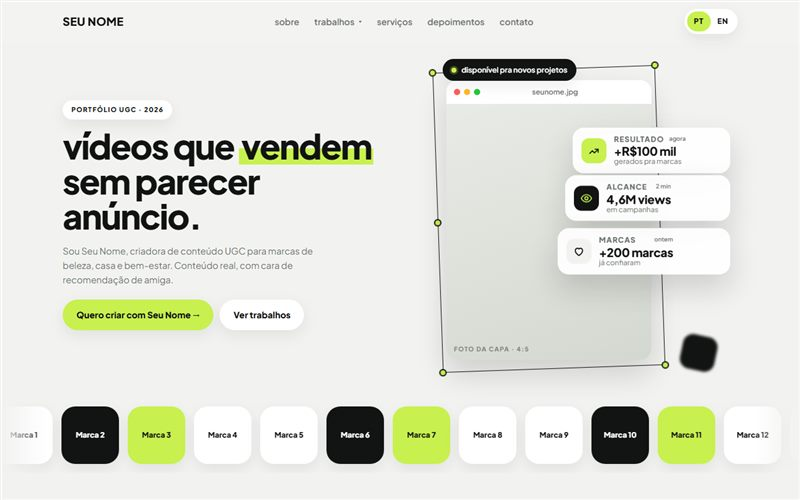
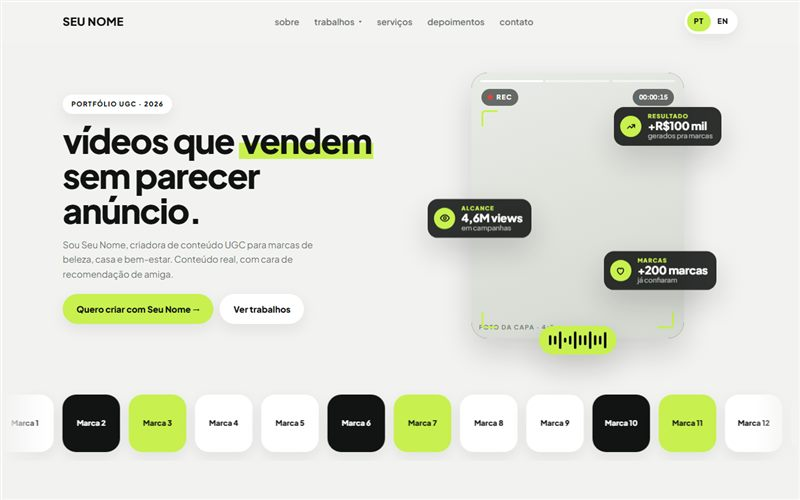
Atualiza index.html

diff --git a/modelos/estilo-03/index.html b/modelos/estilo-03/index.html
@@ -92,46 +92,46 @@ em{font-style:normal;background:linear-gradient(transparent 56%,var(--lima) 56%,
 
 @keyframes boia{0%,100%{transform:translateY(0)}50%{transform:translateY(-8px)}}
 
-/* janela de computador com a foto da capa, moldura de seleção, ícones de app e 3 notificações */
-.janela-area{position:relative;max-width:420px;width:100%;justify-self:center;padding:34px 0 18px}
-.janela{position:relative;width:78%;border-radius:18px;background:var(--branco);box-shadow:var(--sombra-alta);overflow:hidden;animation:boia 7s ease-in-out infinite}
-.janela-barra{display:flex;align-items:center;gap:6px;padding:10px 12px}
-.janela-barra i{width:10px;height:10px;border-radius:50%;background:#ff5f57}
-.janela-barra i:nth-child(2){background:#febc2e}
-.janela-barra i:nth-child(3){background:#28c840}
-.janela-barra span{flex:1;margin-right:28px;text-align:center;font-size:11.5px;font-weight:600;color:var(--cinza)}
-.janela .foto{aspect-ratio:4/5}
-/* moldura de seleção, como num programa de design */
-.selecao{position:absolute;z-index:0;top:16px;left:-14px;width:calc(78% + 28px);bottom:4px;border:1.5px solid var(--tinta);rotate:-2deg;pointer-events:none}
-.selecao i{position:absolute;width:12px;height:12px;border:2px solid var(--tinta);border-radius:50%;background:var(--lima)}
-.selecao i:nth-child(1){top:-7px;left:-7px}
-.selecao i:nth-child(2){top:-7px;left:calc(50% - 6px)}
-.selecao i:nth-child(3){top:-7px;right:-7px}
-.selecao i:nth-child(4){bottom:-7px;left:-7px}
-.selecao i:nth-child(5){bottom:-7px;right:-7px}
-.selecao i:nth-child(6){top:calc(50% - 6px);left:-7px}
-/* "disponível pra novos projetos" com bolinha verde */
-.disponivel{position:absolute;z-index:3;top:0;left:-6px;display:inline-flex;align-items:center;gap:8px;padding:8px 14px;border-radius:999px;background:var(--tinta);color:#fff;font-size:12px;font-weight:600;box-shadow:var(--sombra)}
-.disponivel::before{content:"";width:8px;height:8px;border-radius:50%;background:var(--lima);box-shadow:0 0 0 3px rgba(200,240,79,.25)}
-/* ícones de app desfocados flutuando */
-.app-icone{position:absolute;z-index:0;width:56px;height:56px;border-radius:16px;filter:blur(2px);animation:boia 5s ease-in-out infinite}
-.app-icone.a1{top:30px;left:34%;background:var(--lima);rotate:-10deg}
-.app-icone.a2{bottom:-6px;right:-10px;background:var(--tinta);rotate:12deg;animation-delay:-2s}
-/* notificações por cima da foto */
-.notificacoes{position:absolute;z-index:2;top:22%;right:-34px;width:60%;display:grid;gap:10px;margin:0}
-.notif{display:flex;align-items:center;gap:12px;padding:12px 14px;border-radius:18px;background:rgba(255,255,255,.92);backdrop-filter:blur(10px);-webkit-backdrop-filter:blur(10px);box-shadow:var(--sombra-alta);animation:boia 6s ease-in-out infinite}
-.notif:nth-child(2){margin-left:-12px;animation-delay:-2s}
-.notif:nth-child(3){margin-left:-24px;animation-delay:-4s}
-.notif-icone{flex:none;width:40px;height:40px;border-radius:12px;background:var(--lima);display:grid;place-items:center}
-.notif-icone.escuro{background:var(--tinta)}
-.notif-icone.escuro svg{stroke:var(--lima)}
-.notif-icone.branco{background:var(--fundo)}
-.notif-icone svg{width:20px;height:20px;fill:none;stroke:var(--tinta);stroke-width:2;stroke-linecap:round;stroke-linejoin:round}
-.notif p{margin:0;display:grid;line-height:1.2;min-width:0}
-.notif small{display:flex;justify-content:space-between;gap:8px;font-size:9.5px;font-weight:800;letter-spacing:.1em;color:var(--cinza)}
-.notif small i{font-style:normal;font-weight:600;letter-spacing:0}
-.notif b{margin-top:2px;font-size:19px;font-weight:800;letter-spacing:-.02em}
-.notif p > span{font-size:11.5px;color:var(--cinza)}
+/* visor de câmera gravando com a foto da capa, onda de áudio e 3 resultados em cartões espalhados */
+.visor-area{position:relative;max-width:400px;width:100%;justify-self:center;padding:22px 30px 34px}
+.visor{position:relative;border-radius:26px;overflow:hidden;background:var(--tinta);box-shadow:var(--sombra-alta)}
+.visor .foto{aspect-ratio:4/5}
+/* barrinhas de progresso, como nos stories */
+.story{position:absolute;top:12px;left:14px;right:14px;display:flex;gap:4px}
+.story i{flex:1;height:3px;border-radius:2px;background:rgba(255,255,255,.55);overflow:hidden}
+.story i:first-child{background:#fff}
+.story i:nth-child(2)::before{content:"";display:block;height:100%;background:#fff;animation:carrega 6s linear infinite}
+@keyframes carrega{from{width:0}to{width:100%}}
+/* REC piscando e contador de tempo */
+.rec{position:absolute;top:26px;left:16px;display:flex;align-items:center;gap:6px;padding:5px 10px;border-radius:999px;background:rgba(17,20,18,.6);color:#fff;font-size:10.5px;font-weight:800;letter-spacing:.12em}
+.rec::before{content:"";width:8px;height:8px;border-radius:50%;background:#ff3b30;animation:pisca 1.2s ease-in-out infinite}
+@keyframes pisca{50%{opacity:.2}}
+.tempo{position:absolute;top:26px;right:16px;padding:5px 10px;border-radius:999px;background:rgba(17,20,18,.6);color:#fff;font-size:10.5px;font-weight:700;font-variant-numeric:tabular-nums}
+/* cantinhos de enquadramento da câmera */
+.canto{position:absolute;width:26px;height:26px;border:0 solid var(--lima)}
+.canto.c1{top:60px;left:16px;border-top-width:3px;border-left-width:3px;border-top-left-radius:6px}
+.canto.c2{top:60px;right:16px;border-top-width:3px;border-right-width:3px;border-top-right-radius:6px}
+.canto.c3{bottom:16px;left:16px;border-bottom-width:3px;border-left-width:3px;border-bottom-left-radius:6px}
+.canto.c4{bottom:16px;right:16px;border-bottom-width:3px;border-right-width:3px;border-bottom-right-radius:6px}
+/* onda de áudio */
+.onda{position:absolute;z-index:2;bottom:8px;left:50%;display:flex;align-items:center;gap:4px;height:46px;padding:0 16px;border-radius:999px;background:var(--lima);box-shadow:var(--sombra-alta);transform:translateX(-50%)}
+.onda i{width:4px;height:12px;border-radius:2px;background:var(--tinta);animation:som 1s ease-in-out infinite}
+.onda i:nth-child(3n){animation-delay:-.3s}
+.onda i:nth-child(3n+1){animation-delay:-.6s}
+.onda i:nth-child(4n){animation-duration:.8s}
+@keyframes som{0%,100%{height:8px}50%{height:28px}}
+/* resultados: cartões escuros espalhados em volta da foto */
+.notificacoes{position:absolute;inset:0;z-index:3;margin:0;pointer-events:none}
+.notif{position:absolute;display:flex;align-items:center;gap:10px;padding:10px 14px 10px 10px;border-radius:16px;background:rgba(17,20,18,.88);backdrop-filter:blur(10px);-webkit-backdrop-filter:blur(10px);color:#fff;box-shadow:var(--sombra-alta);animation:boia 6s ease-in-out infinite}
+.notif.n1{top:16%;right:-30px}
+.notif.n2{top:48%;left:-40px;animation-delay:-2s}
+.notif.n3{bottom:22%;right:-22px;animation-delay:-4s}
+.notif-icone{flex:none;width:34px;height:34px;border-radius:50%;background:var(--lima);display:grid;place-items:center}
+.notif-icone svg{width:17px;height:17px;fill:none;stroke:var(--tinta);stroke-width:2.2;stroke-linecap:round;stroke-linejoin:round}
+.notif p{margin:0;display:grid;line-height:1.2}
+.notif small{font-size:9px;font-weight:800;letter-spacing:.14em;color:var(--lima)}
+.notif b{font-size:18px;font-weight:800;letter-spacing:-.02em}
+.notif p > span{font-size:11px;color:rgba(255,255,255,.65)}
 
 /* ---------- marcas: faixa branca fininha com os nomes passando ---------- */
 .marcas{padding:14px 0 26px}
@@ -267,7 +267,7 @@ em{font-style:normal;background:linear-gradient(transparent 56%,var(--lima) 56%,
 /* animação ao rolar */
 .surge{opacity:0;transform:translateY(22px);transition:opacity .8s,transform .8s}
 .surge.visto{opacity:1;transform:none}
-@media (prefers-reduced-motion:reduce){.surge{opacity:1;transform:none}.marcas-trilho,.destaque,.janela,.notif,.app-icone,.encontre{animation:none}}
+@media (prefers-reduced-motion:reduce){.surge{opacity:1;transform:none}.marcas-trilho,.destaque,.notif,.onda i,.story i::before,.rec::before,.encontre{animation:none}}
 
 /* ---------- celular ---------- */
 @media (max-width:900px){
@@ -281,25 +281,23 @@ em{font-style:normal;background:linear-gradient(transparent 56%,var(--lima) 56%,
   .submenu a{padding:10px 0;border-radius:0;border-bottom:1px solid var(--linha);font-size:15px}
   .abrir-menu{display:grid}
   .marca{font-size:16px}
-  /* capa: a janela com a foto vem depois do texto */
+  /* capa: o visor com a foto vem depois do texto */
   .capa{padding:24px 0 40px}
   .capa .largura{grid-template-columns:1fr;gap:0}
-  .capa .capa-foto{margin:30px auto 0;max-width:360px}
-  .janela{width:74%}
-  .app-icone.a2{right:4px}
-  .selecao{left:-8px;width:calc(74% + 16px)}
-  .notificacoes{right:-4px;width:68%;top:26%}
-  .notif{padding:9px 10px;gap:9px;border-radius:14px}
-  .notif:nth-child(2){margin-left:-8px}
-  .notif:nth-child(3){margin-left:-16px}
-  .notif-icone{width:32px;height:32px;border-radius:10px}
-  .notif-icone svg{width:16px;height:16px}
+  .capa .capa-foto{margin:18px auto 0;max-width:340px;padding:18px 26px 30px}
+  .notif{padding:8px 11px 8px 8px;gap:8px;border-radius:13px}
+  .notif.n1{right:-4px}
+  .notif.n2{left:-4px}
+  .notif.n3{right:-2px}
+  .notif-icone{width:28px;height:28px}
+  .notif-icone svg{width:14px;height:14px}
+  .notif b{font-size:15px}
+  .notif p > span{font-size:10px}
   .marca-bola{width:78px;height:78px;border-radius:18px;font-size:11px}
   .capa h1{font-size:38px}
   .capa p.apresenta{font-size:14.5px;margin-top:14px}
   .capa .btn{padding:11px 16px;font-size:13px}
   .capa .botoes{gap:8px;margin-top:18px}
-  .notif b{font-size:16px}
   .sobre .largura{grid-template-columns:1fr;gap:30px}
   .sobre .polaroid{width:100%;max-width:320px;margin:6px auto 0;order:2}
   .destaques-lista{grid-template-columns:none;grid-auto-flow:column;grid-auto-columns:72%;overflow-x:auto;scroll-snap-type:x mandatory;padding:16px 14% 18px}
@@ -382,21 +380,22 @@ em{font-style:normal;background:linear-gradient(transparent 56%,var(--lima) 56%,
           <a class="btn btn-linha" href="#destaques" data-en="See my work">Ver trabalhos</a>
         </div>
       </div>
-      <!-- foto da capa numa janela de computador, com moldura de seleção e 3 notificações por cima -->
-      <div class="capa-foto janela-area">
-        <span class="disponivel" data-en="available for new projects">disponível pra novos projetos</span>
-        <span class="app-icone a1" aria-hidden="true"></span>
-        <span class="app-icone a2" aria-hidden="true"></span>
-        <div class="selecao" aria-hidden="true"><i></i><i></i><i></i><i></i><i></i><i></i></div>
-        <div class="janela">
-          <div class="janela-barra" aria-hidden="true"><i></i><i></i><i></i><span>seunome.jpg</span></div>
+      <!-- foto da capa num visor de câmera gravando, com 3 resultados em cartões espalhados em volta -->
+      <div class="capa-foto visor-area">
+        <div class="visor">
           <div class="foto" data-texto="Foto da capa · 4:5"></div>
+          <div class="story" aria-hidden="true"><i></i><i></i><i></i></div>
+          <span class="rec" aria-hidden="true">REC</span>
+          <span class="tempo" aria-hidden="true">00:00:15</span>
+          <span class="canto c1" aria-hidden="true"></span><span class="canto c2" aria-hidden="true"></span><span class="canto c3" aria-hidden="true"></span><span class="canto c4" aria-hidden="true"></span>
         </div>
-        <!-- EDITAR: os 3 resultados que aparecem como notificação (os números contam sozinhos) -->
+        <!-- onda de áudio animada -->
+        <div class="onda" aria-hidden="true"><i></i><i></i><i></i><i></i><i></i><i></i><i></i><i></i><i></i><i></i><i></i><i></i></div>
+        <!-- EDITAR: os 3 resultados (os números contam sozinhos) -->
         <div class="notificacoes numeros">
-          <div class="notif"><span class="notif-icone"><svg viewBox="0 0 24 24"><path d="M4 17l5-5 4 4 7-7"/><path d="M14 9h6v6"/></svg></span><p><small><span data-en="RESULTS">RESULTADO</span><i data-en="now">agora</i></small><b>+R$100 mil</b><span data-en="generated for brands">gerados pra marcas</span></p></div>
-          <div class="notif"><span class="notif-icone escuro"><svg viewBox="0 0 24 24"><path d="M2 12s4-7 10-7 10 7 10 7-4 7-10 7S2 12 2 12z"/><circle cx="12" cy="12" r="3"/></svg></span><p><small><span data-en="REACH">ALCANCE</span><i data-en="2 min">2 min</i></small><b>4,6M views</b><span data-en="in campaigns">em campanhas</span></p></div>
-          <div class="notif"><span class="notif-icone branco"><svg viewBox="0 0 24 24"><path d="M12 20s-7-4.4-7-10a4 4 0 0 1 7-2.6A4 4 0 0 1 19 10c0 5.6-7 10-7 10z"/></svg></span><p><small><span data-en="BRANDS">MARCAS</span><i data-en="yesterday">ontem</i></small><b>+200 marcas</b><span data-en="already trusted me">já confiaram</span></p></div>
+          <div class="notif n1"><span class="notif-icone"><svg viewBox="0 0 24 24"><path d="M4 17l5-5 4 4 7-7"/><path d="M14 9h6v6"/></svg></span><p><small data-en="RESULTS">RESULTADO</small><b>+R$100 mil</b><span data-en="generated for brands">gerados pra marcas</span></p></div>
+          <div class="notif n2"><span class="notif-icone"><svg viewBox="0 0 24 24"><path d="M2 12s4-7 10-7 10 7 10 7-4 7-10 7S2 12 2 12z"/><circle cx="12" cy="12" r="3"/></svg></span><p><small data-en="REACH">ALCANCE</small><b>4,6M views</b><span data-en="in campaigns">em campanhas</span></p></div>
+          <div class="notif n3"><span class="notif-icone"><svg viewBox="0 0 24 24"><path d="M12 20s-7-4.4-7-10a4 4 0 0 1 7-2.6A4 4 0 0 1 19 10c0 5.6-7 10-7 10z"/></svg></span><p><small data-en="BRANDS">MARCAS</small><b>+200 marcas</b><span data-en="already trusted me">já confiaram</span></p></div>
         </div>
       </div>
     </div>

diff --git a/cliente/index.html b/cliente/index.html
@@ -545,7 +545,7 @@ const MODELOS = [
   { tipo: "Bio link",  nome: "Elegante", categoria: "Escuro e sofisticado", link: "", imagem: "", estilo: "elegante" },
   { tipo: "Portfólio", nome: "Editorial creme e azul", categoria: "Editorial", link: "../modelos/estilo-01/", imagem: "../fotos/modelos/01.jpg?v=5" },
   { tipo: "Portfólio", nome: "Scrapbook rosa e amarelo", categoria: "Divertido", link: "../modelos/estilo-02/", imagem: "../fotos/modelos/02.jpg?v=4" },
-  { tipo: "Portfólio", nome: "Editor flutuante", categoria: "Moderno", link: "../modelos/estilo-03/", imagem: "../fotos/modelos/03.jpg?v=4" },
+  { tipo: "Portfólio", nome: "Editor flutuante", categoria: "Moderno", link: "../modelos/estilo-03/", imagem: "../fotos/modelos/03.jpg?v=5" },
   { tipo: "Site",      nome: "Clean",    categoria: "Clean e elegante",     link: "", imagem: "", estilo: "clean" },
   { tipo: "Site",      nome: "Colorido", categoria: "Colorido e divertido", link: "", imagem: "", estilo: "colorido" },
   { tipo: "Site",      nome: "Elegante", categoria: "Escuro e sofisticado", link: "", imagem: "", estilo: "elegante" }
